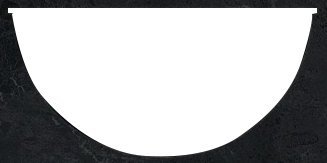
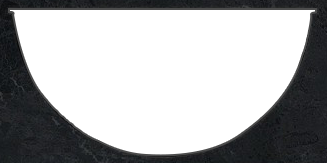
Cauldron graphics + animation

diff --git a/ferghus/brynn.html b/ferghus/brynn.html
@@ -24,15 +24,18 @@
         <div class="container-fluid">
             <div class="row">
                 <div id="enchant" ng-controller="EnchantController as enchant">
-                    <div id="fill"></div>
+                    <div id="fillContainer">
+                        <div id="fill"></div>
+                    </div>
+                    <div id="fillVoid"></div>
                     <div id="fillOverlay"></div>
                     <div class="text" id="amp"></div>
                     <div class="text" id="magic">
                         Current Magic : {{enchant.magic}}/100 (Current Success Rate {{enchant.success}}%)
                     </div>
-                    <div class="canClick" id="magicElixir" ng-click="enchant.addElixir(1)"></div>
-                    <div class="canClick" id="blessedMagicElixir" ng-click="enchant.addElixir(2)"></div>
-                    <div class="canClick" id="magicElixirOfLife" ng-click="enchant.addElixir(3)"></div>
+                    <div class="canClick noSelect" id="magicElixir" ng-click="enchant.addElixir(1)"></div>
+                    <div class="canClick noSelect" id="blessedMagicElixir" ng-click="enchant.addElixir(2)"></div>
+                    <div class="canClick noSelect" id="magicElixirOfLife" ng-click="enchant.addElixir(3)"></div>
                     <div class="canClick" id="begin" ng-click="enchant.begin()"></div>
                     <div class="canClick" id="cancel" ng-click="enchant.cancel()"></div>
                 </div>

diff --git a/ferghus/assets/css/brynn.css b/ferghus/assets/css/brynn.css
@@ -17,17 +17,32 @@
 	position: absolute;
 	z-index: 4;
 }
-#enchant #fill {
+#enchant #fillContainer {
 	width: 310px;
 	height: 148px;
-	background: linear-gradient(to bottom, #230e37 0%, #6b213a 45%, #be7c3a 100%);
 	left: 49px;
 	top: 163px;
+	overflow: hidden;
+}
+#enchant #fill {
+	width: 100%;
+	height: 100%;
+	background: linear-gradient(to bottom, #230e37 0%, #6b213a 45%, #be7c3a 100%);
+	left: 0px;
+	top: 143px;
+}
+#enchant #fillVoid {
+	width: 310px;
+	height: 60px;
+	background-color: #000;
+	left: 49px;
+	top: 163px;
+	display: none;
 }
 #enchant #fillOverlay {
 	width: 327px;
 	height: 163px;
-	background-image: url(/assets/img/enchant_gradient_overlay2.png);
+	background-image: url(/assets/img/enchant_gradient_overlay.png);
 	left: 41px;
 	top: 150px;
 	z-index: 5;
@@ -67,17 +82,17 @@
 	left: 433px;
 	top: 187px;
 }
+
 #enchant #begin {
 	width: 120px;
 	height: 30px;
 	left: 81px;
 	top: 388px;
+	border-radius: 4px;
 }
-
 #enchant #begin:hover {
 	background-image: url(/assets/img/enchant_begin_hover.jpg);
 }
-
 #enchant #begin:active {
 	background-image: url(/assets/img/enchant_begin_active.jpg);
 }
@@ -87,12 +102,11 @@
 	height: 30px;
 	left: 210px;
 	top: 388px;
+	border-radius: 4px;
 }
-
 #enchant #cancel:hover {
 	background-image: url(/assets/img/enchant_cancel_hover.jpg);
 }
-
 #enchant #cancel:active {
 	background-image: url(/assets/img/enchant_cancel_active.jpg);
 }

diff --git a/ferghus/assets/angular/app-brynn.js b/ferghus/assets/angular/app-brynn.js
@@ -7,6 +7,7 @@
 		this.successStart = 25;
 		this.successEnd = 40;
 		this.success = this.successStart;
+		var fill = $("#fill");
 
 		this.calcSuccess = function() {
 			this.success = Math.floor(this.successStart + (this.successEnd - this.successStart) * (this.magic / 100.0));
@@ -15,6 +16,8 @@
 		this.addMagic = function(br) {
 			this.magic = this.magic + br;
 			this.calcSuccess();
+			var fillTop = Math.max(143 - 143 * (this.magic / 100), 0);
+			TweenMax.to(fill, 0.5, {top:fillTop, ease:Power2.easeOut});
 		}
 
 		this.addElixir = function(elixir) {
@@ -47,6 +50,7 @@
 		this.cancel = function() {
 			this.magic = 0;
 			this.calcSuccess();
+			fill.css("top", 143);
 		}
 	})
 })();

diff --git a/ferghus/assets/js/common.js b/ferghus/assets/js/common.js
@@ -8,7 +8,7 @@ function randomFloat(min, max) {
 }
 
 // Prevent text selection
-$("body").mousedown(function(e){ e.preventDefault(); });
+$(".noSelect").mousedown(function(e){ e.preventDefault(); });
 
 // Endless sway ease for BG
 function bgSway() {
